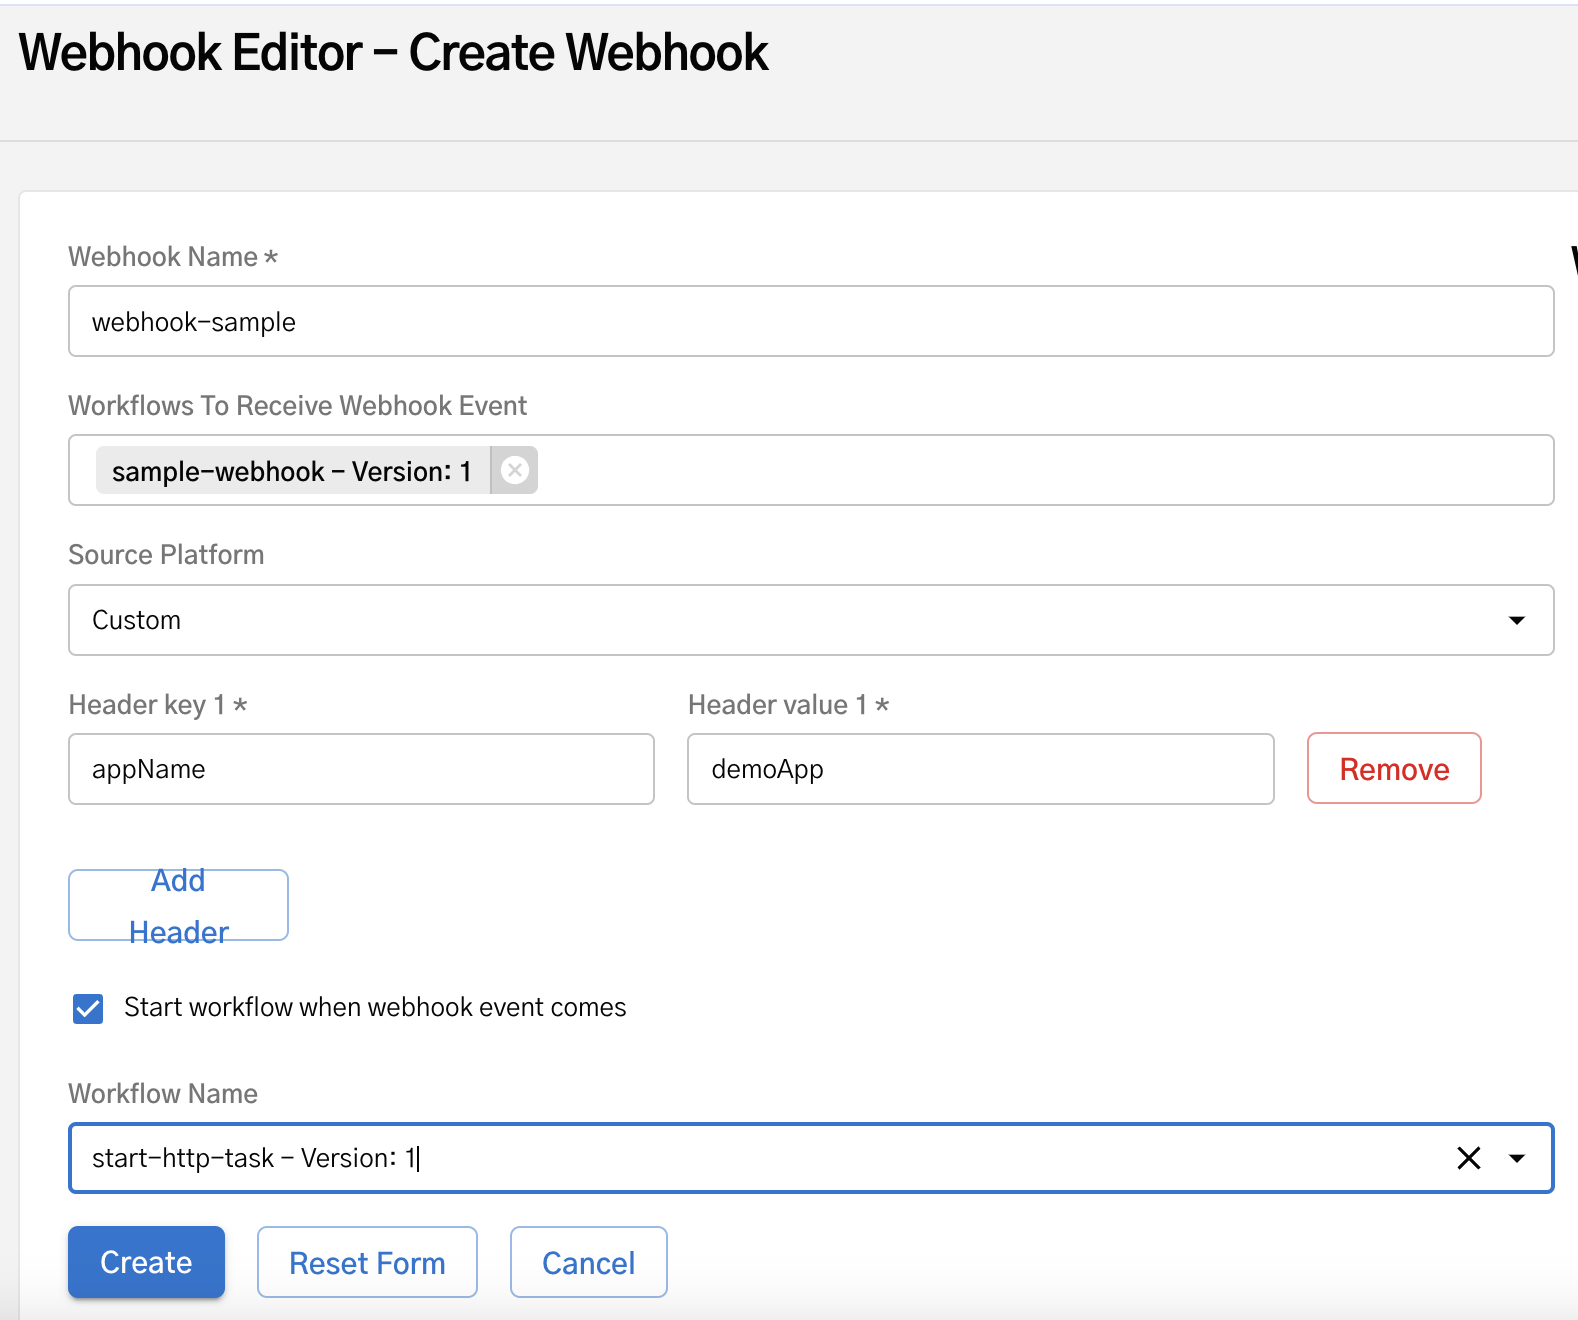
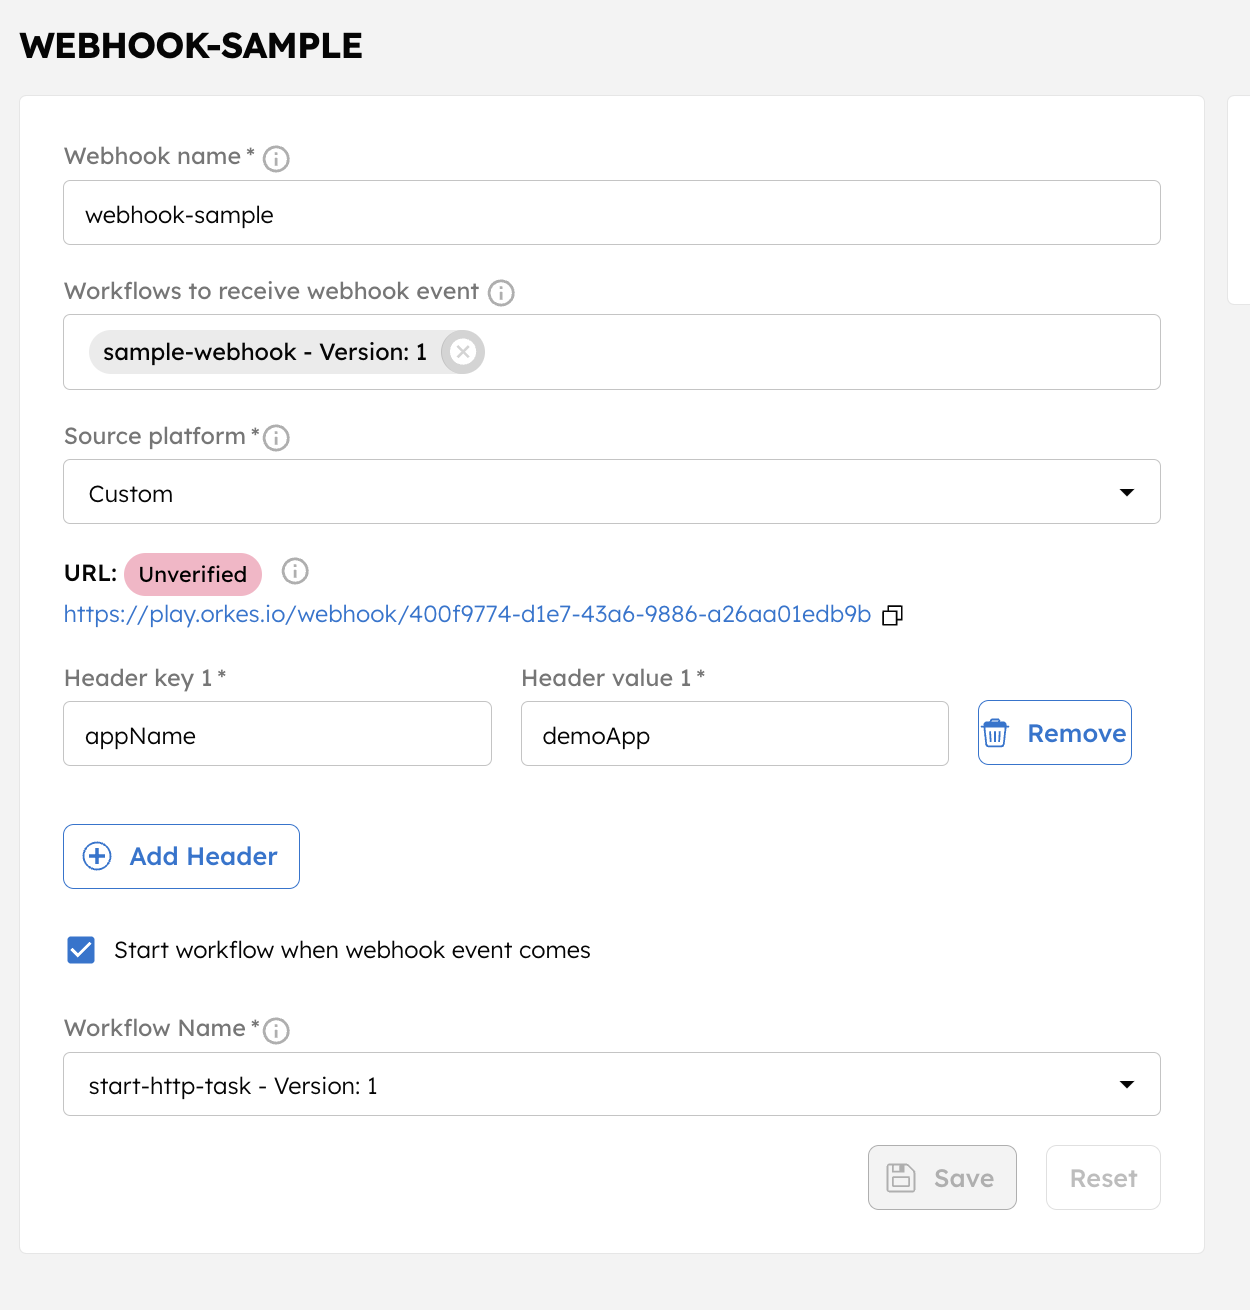
updates

diff --git a/docs/templates/examples/incoming-webhook-using-postman.md b/docs/templates/examples/incoming-webhook-using-postman.md
@@ -81,11 +81,7 @@ Under the field “Workflows to Receive Webhook Event”, choose the workflow th
 
 Provider a header key and value. Let’s also configure to start the workflow **“start-http-task”** when the webhook event comes from Postman.
 
-On saving the webhook, an unverified URL will be generated, as shown below:
-
-<p align="center"><img src="/content/img/sample-webhook-unverified.png" alt="Webhook with unverified URL" width="70%" height="auto" style={{paddingBottom: 40, paddingTop: 40}} /></p>
-
-Since this is a header-based verifier, the URL will be verified once the first Webhook event comes with all the header keys and values configured. 
+On saving the webhook, an unverified URL will be generated. Since this is a header-based verifier, the URL will be verified once the first Webhook event comes with all the header keys and values configured. 
 
 ## Run Workflow
 
@@ -101,9 +97,9 @@ Provide the header key and value, and the input matches in JSON format.
 
 <p align="center"><img src="/content/img/configuring-headers-in-postman-request.jpg" alt="Configuring headers in Postman request" width="80%" height="auto" style={{paddingBottom: 40, paddingTop: 40}} /></p>
 
-Click **Send**, and it should return a 200 OK.
-
 <p align="center"><img src="/content/img/send-request-postman.png" alt="Sending POST request from Postman" width="80%" height="auto" style={{paddingBottom: 40, paddingTop: 40}} /></p>
+
+Click **Send**, and it should return a 200 OK.
 
 Now, if we return to the webhook, you can see that the event has been received. This triggered the workflow in which the webhook task was added.
 
@@ -113,6 +109,6 @@ You can see that the webhook URL has been verified now. And if you check the pre
 
 <p align="center"><img src="/content/img/workflow-completed.png" alt="Sample webhook workflow completed" width="40%" height="auto" style={{paddingBottom: 40, paddingTop: 40}} /></p>
 
-We have also configured to start the workflow **“start_http_task”** on receiving this webhook event. You can verify the same from the **Workflow > Executions** page.
+We have also configured to start the workflow **“start_http_task”** on receiving this webhook event. You can verify the same from the **Executions > Workflow** page.
 
 <p align="center"><img src="/content/img/workflow-started-when-request-came.png" alt="Workflow triggered when request came from Postman" width="100%" height="auto" style={{paddingBottom: 40, paddingTop: 40}} /></p>
